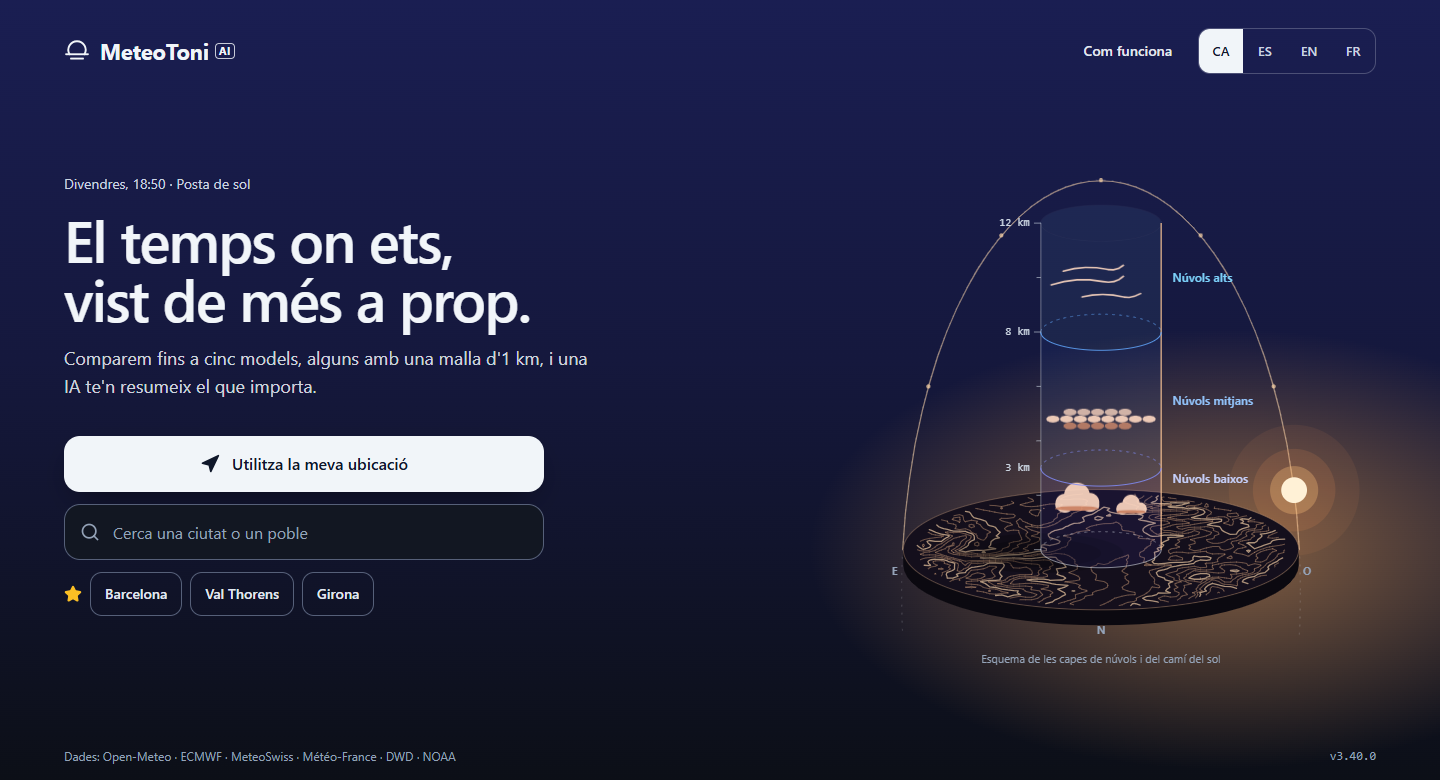
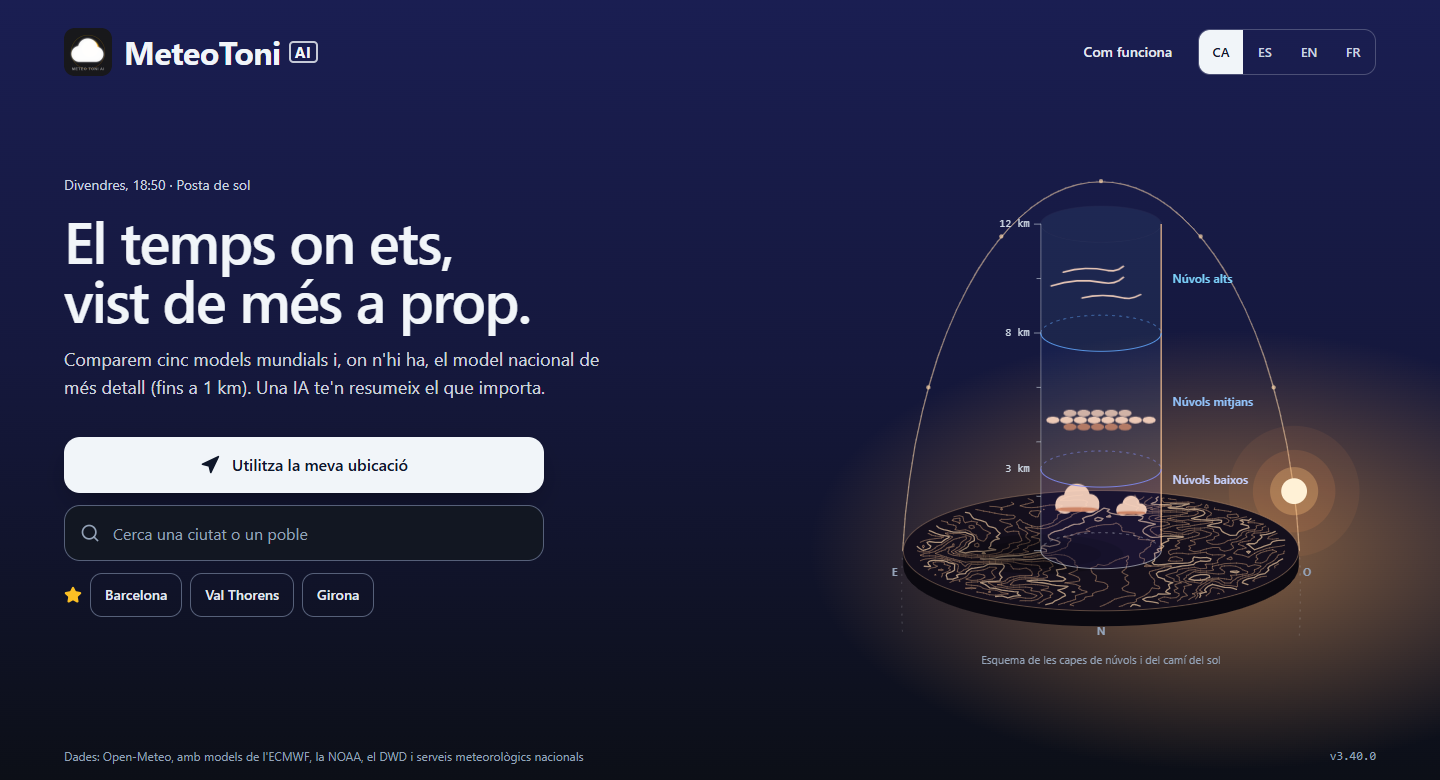
docs(readme): captures noves de la pantalla d'inici i del tauler
- screenshot-desktop.png (README, "wide" del manifest i og:image): la
  benvinguda amb la marca nova, el subtítol i el peu de dades nous; la
  mateixa escena (divendres 18:50 a Madrid, posta de sol, 1440×780).
- screenshot-mobile.png (README i "narrow" del manifest): el tauler amb
  "METEOTONI AI" a la capçalera, Barcelona en mode Expert amb les dades
  reals d'avui (600×1298, la mida del manifest).
- La descripció de la benvinguda explica la línia de dalt: hores del sol
  amb ubicació, matí/migdia/tarda sense, i la lluna en paraules planeres.

diff --git a/README.md b/README.md
@@ -231,7 +231,7 @@ Per complementar l'anàlisi tàctica de la IA (horitzó de 6 hores) amb avisos d
 
 ### 15. Disseny Visual: Spatial UI & Neo-Skeuomorfisme
 Dissenyada sota el concepte de *Dark Dashboard* per facilitar la lectura ràpida sota qualsevol llum:
-* **Benvinguda «Columna del cel»:** la primera pantalla no consulta cap dada i és igual per a tothom: un esquema de l'aire que tens a sobre —núvols baixos, mitjans i alts, amb les mateixes alçades que el giny Capes de núvols— amb el camí del sol a l'hora actual i, de nit, la Lluna amb la fase real. El cel és sempre el del lloc on és el dispositiu: la ciutat de referència de la seva zona horària o, si ja havies donat permís d'ubicació, la teva posició, sense tornar a preguntar; els llocs que consultes no el canvien. «Utilitza la meva ubicació» funciona amb un sol toc i el botó no es queda mai bloquejat: si el permís està denegat, la ubicació no està disponible o el GPS no respon, l'avís en diu la causa i el cercador i els favorits són just a sota. El càlcul del cel es carrega després del primer pintat (el paquet inicial no creix) i no hi ha desenfocaments ni animacions en bucle.
+* **Benvinguda «Columna del cel»:** la primera pantalla no consulta cap dada i és igual per a tothom: un esquema de l'aire que tens a sobre —núvols baixos, mitjans i alts, amb les mateixes alçades que el giny Capes de núvols— amb el camí del sol a l'hora actual i, de nit, la Lluna amb la fase real. A sobre del titular, l'hora i el moment del dia: si ja havies donat permís d'ubicació, a quina hora surt i es pon el sol; si no, matí, migdia o tarda (amb la ciutat de la zona horària, les hores podrien anar mitja hora desviades); de nit, la Lluna dibuixada i la fase dita en paraules de cada dia («Lluna gairebé plena»). El cel és sempre el del lloc on és el dispositiu: la ciutat de referència de la seva zona horària o, si ja havies donat permís d'ubicació, la teva posició, sense tornar a preguntar; els llocs que consultes no el canvien. «Utilitza la meva ubicació» funciona amb un sol toc i el botó no es queda mai bloquejat: si el permís està denegat, la ubicació no està disponible o el GPS no respon, l'avís en diu la causa i el cercador i els favorits són just a sota. El càlcul del cel es carrega després del primer pintat (el paquet inicial no creix) i no hi ha desenfocaments ni animacions en bucle.
 * **Modals lleugers per a mòbils modestos:** els modals del Sol, la Lluna i els dels ginys del Mode Expert ja no fan servir desenfocaments de fons (`backdrop-filter`) ni filtres de desenfocament, ni animacions en bucle: les superfícies són opaques i les lluïssors i els cels són degradats estàtics que el navegador pinta una sola vegada, i amb el modal obert les animacions del tauler que queda tapat es posen en pausa. Les alçades dels seus fulls —i les del model regional i del radar— són un percentatge de la pantalla i no unitats `dvh`, així que també funcionen en navegadors i WebViews d'Android antics, on abans el botó de tancar podia quedar fora de la pantalla (i el mapa del radar, sense alçada).
 * **Ginys del Sol i la Lluna sense efectes cars:** cap desenfocament, filtre ni animació en bucle (abans, una lluentor animada sense parar a la Lluna, desenfocaments de 50 px i de fons, pulsos i perspectiva 3D). El dibuix de la corba del sol es fa un cop al dia i, cada minut, només es mouen el sol i els textos.
 * **Gràfics d'evolució a tota l'amplada:** a PC, el gràfic de 48 hores dels nou modals experts quedava estret al mig del full, i el punt que segueix el ratolí no coincidia amb la línia (amb el ratolí al 75 % de l'amplada, el punt es dibuixava al 60 %). Ara el gràfic omple l'amplada sense que els traços es deformin, i el punt cau on hi ha el ratolí o el dit. A mòbil es veu igual que abans.
